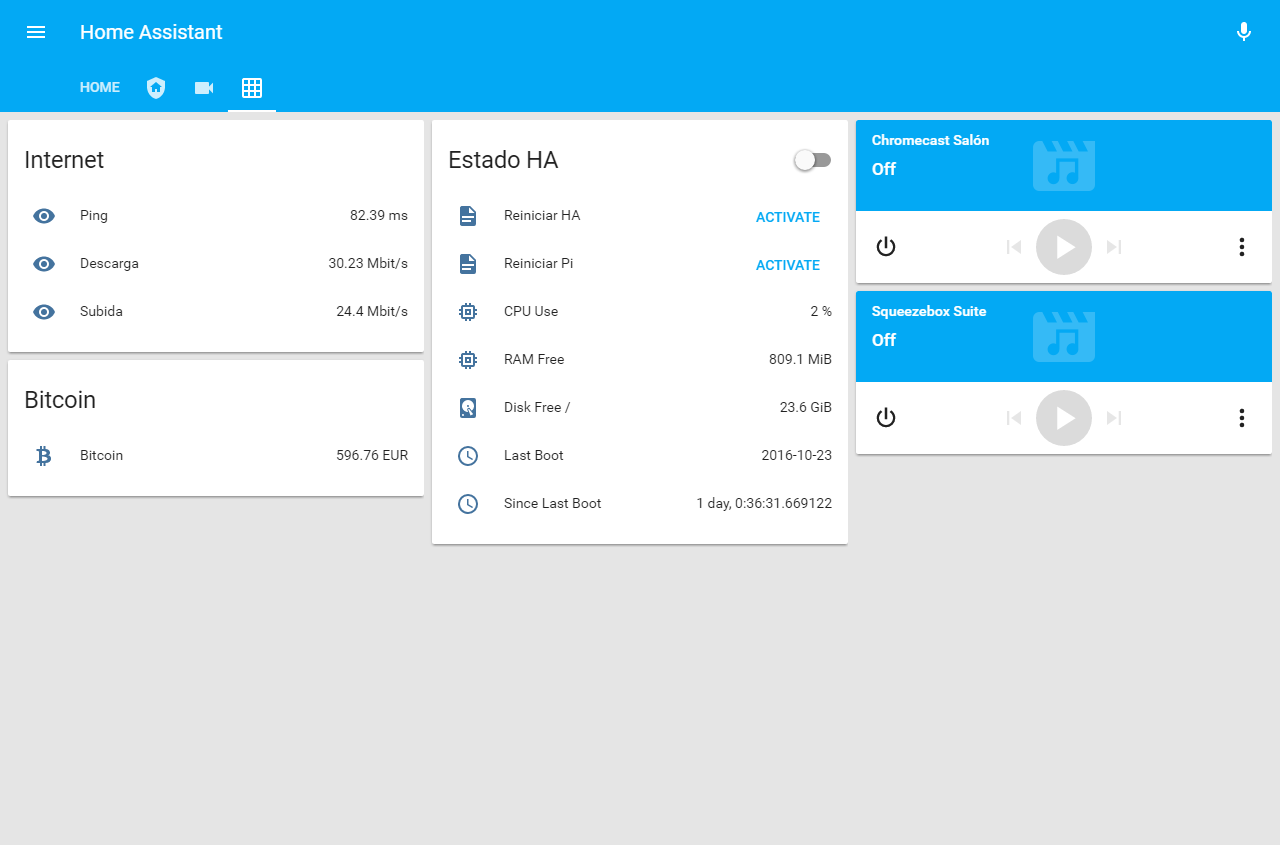
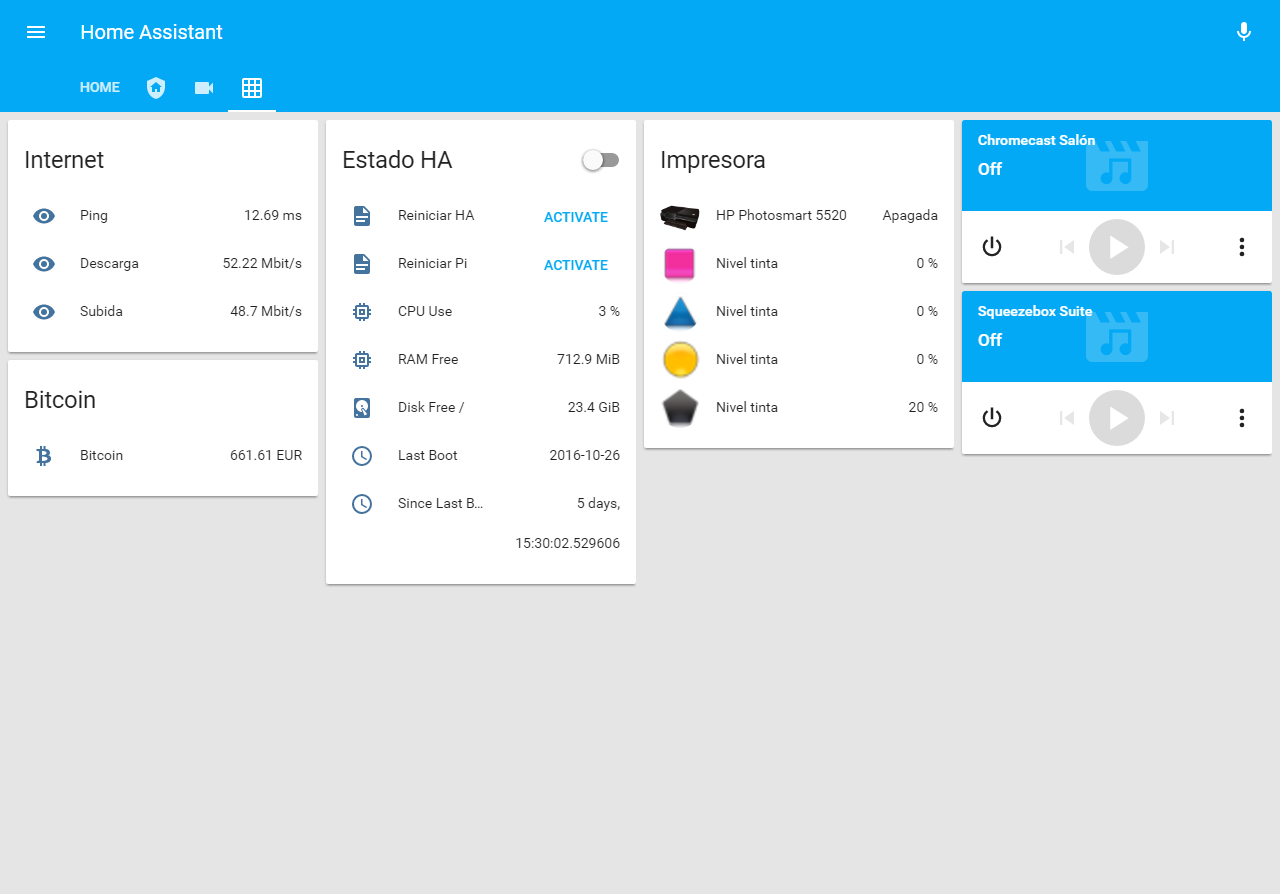
Updated documentation

diff --git a/README.md b/README.md
@@ -11,6 +11,8 @@ Home Assistant runs on my Raspberry Pi 3 with a UPS APC Back-UPS 650VA attached.
 * [Mosquitto] (https://mosquitto.org/)
 * [vsftpd FTP server] (https://security.appspot.com/vsftpd.html)
 * [incron] (http://inotify.aiken.cz/)
+* [CUPS] (https://wiki.archlinux.org/index.php/CUPS)
+* [HPLIP] (http://hplipopensource.com/hplip-web/index.html)
 * [Home Assistant](https://home-assistant.io/)
 
 ## Devices I have:
@@ -27,6 +29,7 @@ Home Assistant runs on my Raspberry Pi 3 with a UPS APC Back-UPS 650VA attached.
 * Logitech Squeezebox
 * Efergy energy meter
 * Fitbit Alta
+* HP Photosmart 5520 printer
 
 ## Automations (among others)
 * Activate/deactivate motion detection and heating depending on the presence
@@ -39,8 +42,8 @@ Home Assistant runs on my Raspberry Pi 3 with a UPS APC Back-UPS 650VA attached.
 * Notify when the power is back to normal.
 * Notify when the UPS battery has to be replaced.
 * Notify if fence is open form more than 4 minutes.
-* Turn on swimming pool pump at 7AM
-* Turn on swimming pool pump at 8PM
+* Turn on swimming pool pump every day at 7AM
+* Turn on swimming pool pump every day at 8PM
 * Stop the swimming pool pump depending on the season of the year (3 hours in summer, 2 hours in spring and autumn, 1 hour in winter).
 I've created a sensor to determine roughly the season of the year:
 ```
@@ -75,14 +78,18 @@ I've configured the system to get instant notifications using telegram including
 
 ### Motion detection activation
 Motion detection is activated automatically as soon as no one is at home.
+
 I have an assistant that doesn't use the WiFi so (appart from legal implications) I cannot track her device.
+
 My solution to this is to create a switch to enable a delay to activate motion detection and a slider to configure the delay in minutes.
 
 ![Security activation delay](https://raw.githubusercontent.com/hokus15/home-assistant-config/master/security_activation_delay.png)
 
 ### Cameras configuration
 The configuration for my cameras has been set to upload a snapshot to an FTP every time a motion is detected.
+
 You have to tweak the camera configuration (sensibility, motion detection zones, number of snapshots taken,...) to fit your needs (and not get too many notifications).
+
 Each camera upload the snapshot into a different folder in the same FTP.
 
 ### FTP
@@ -101,7 +108,7 @@ Now we need to connect the FTP with home-assistant.
 
 For this I've used incron.
 
-As described in their website (http://inotify.aiken.cz/?section=incron&page=about&lang=en): *This program is an "inotify cron" system. It consists of a daemon and a table manipulator. You can use it a similar way as the regular cron. The difference is that the inotify cron handles filesystem events rather than time periods.*
+As described in [iNotify website] (http://inotify.aiken.cz/?section=incron&page=about&lang=en): *This program is an "inotify cron" system. It consists of a daemon and a table manipulator. You can use it a similar way as the regular cron. The difference is that the inotify cron handles filesystem events rather than time periods.*
 
 I've configured incron to execute a script called `motion_detected.sh` every time a new file is written and closed in the FTP folders.
 
@@ -114,7 +121,10 @@ This is how it looks like my incrontab configuration:
 
 ### Send pictures using telegram
 The script `motion_detected.sh` calls home-assistant API to trigger a notification using Telegram including the snapshot.
-It gets 2 parameters, first to get the name of the uploaded file (snapshot) and the other one the location of camera that uploaded the file (snapshot).
+
+It also publishes alarm status 1 to MQTT topic `home/camera/<camera name>/alarm`. 
+
+It gets 2 parameters, first to get the name of the uploaded file (snapshot) and the other one the name of the camera that uploaded the file (snapshot).
 
 To run the script without providing a password to Home-Assistant, I've added `127.0.0.1` to `trusted_networks` list in `configuration.yaml` file.
 
@@ -122,4 +132,102 @@ This is how the script looks like:
 ```
 #!/bin/sh
 curl -s -X POST -H "Content-Type: application/json" -d '{"message": "text", "data": {"photo": {"file": "'$1'", "caption": "Movimiento detectado en '$2'"}}}' "http://localhost:8123/api/services/notify/telegram"
+mosquitto_pub --cafile /etc/ssl/certs/ca-certificates.crt -h <mqtt_host> -p <mqtt_port> -u <mqtt_user> -P <mqtt_password> -t "home/camera/$2/alarm" -r -m 1
 ```
+
+The `home/camera/<camera name>/alarm` topic is back to 0 after 15 seconds using an automation.
+
+## Monitor UPS status
+
+I have a APC Back-UPS 650VA UPS attached to my raspberry pi.
+
+This UPS gives power to my main internet router, my raspberry pi and my QNAP NAS.
+
+Monitor the UPS status is very useful to know when a power outage has occured (and receive a telegram notification) and also know when the power is back to normal.
+
+To monitor the UPS status in Home Assistant I use a MQTT sensor.
+
+### Publish the UPS status to MQTT
+
+To publish the UPS status to MQTT I use [NUT] (http://networkupstools.org/).
+
+Once you have NUT installed an running you can configure it to publish UPS status to MQTT topic.
+
+To do this, just edit `/etc/nut/upsmon.conf` file and set the `NOTIFYCMD` command top publish the status to MQTT:
+
+```
+NOTIFYCMD "mosquitto_pub --cafile /etc/ssl/certs/ca-certificates.crt -h <mqtt_host> -p <mqtt_port> -u <mqtt_user> -P <mqtt_password> -t \"home/ups/status\" -r -m $NOTIFYFLAG"
+```
+
+I've also adapted the `NOTIFYMSG` values:
+
+```
+NOTIFYMSG ONLINE        "ONLINE"
+NOTIFYMSG ONBATT        "ONBATT"
+NOTIFYMSG LOWBATT       "LOWBATT"
+NOTIFYMSG FSD           "FSD"
+NOTIFYMSG COMMOK        "COMMOK"
+NOTIFYMSG COMMBAD       "COMMBAD"
+NOTIFYMSG SHUTDOWN      "SHUTDOWN"
+NOTIFYMSG REPLBATT      "RPLBATT"
+NOTIFYMSG NOCOMM        "NOCOMM"
+NOTIFYMSG NOPARENT      "NOPARENT"
+```
+
+and `NOTIFYFLAG` values:
+
+```
+NOTIFYFLAG ONLINE       EXEC+SYSLOG
+NOTIFYFLAG ONBATT       EXEC+SYSLOG
+NOTIFYFLAG LOWBATT      EXEC+SYSLOG
+NOTIFYFLAG FSD  EXEC+SYSLOG
+NOTIFYFLAG COMMOK       EXEC+SYSLOG
+NOTIFYFLAG COMMBAD      SYSLOG
+NOTIFYFLAG SHUTDOWN     EXEC+SYSLOG
+NOTIFYFLAG REPLBATT     EXEC+SYSLOG
+NOTIFYFLAG NOCOMM       EXEC+SYSLOG
+NOTIFYFLAG NOPARENT     EXEC+SYSLOG
+```
+
+![UPS Monitor](https://raw.githubusercontent.com/hokus15/home-assistant-config/master/UPS_monitor.png)
+
+## Monitor printer ink levels
+
+You need to install [CUPS] (https://wiki.archlinux.org/index.php/CUPS) and [HPLIP] (http://hplipopensource.com/hplip-web/index.html).
+
+Once the printer is configured you can read the ink levels using the `hp-info` utility.
+
+To monitor the ink levels in Home Assistant I use one MQTT sensor per each color.
+
+### Publish the ink levels to MQTT
+
+I've created a script to publish each color ink level to a different MQTT topic (`home/printer/<color>`). This script only publishes to MQTT if something is returned from `hp-info` utility.
+
+The script looks like:
+```
+#!/bin/sh
+ink_levels=$(hp-info 2>&1 | grep -oP "(?<=agent[1-4]-level\s{18})(.*\S)" | tr "\n" ",")
+colors=(
+     'magenta'
+     'cyan'
+     'yellow'
+     'black'
+   )
+if [ -n "${ink_levels}" ]; then
+    IFS=',' read -r -a ink_levels_array <<< "$ink_levels"
+    for index in "${!ink_levels_array[@]}"
+    do
+        if [ -n "${ink_levels_array[index]}" ]; then
+           mosquitto_pub --cafile /etc/ssl/certs/ca-certificates.crt -h <mqtt_host> -p <mqtt_port> -u <mqtt_user> -P <mqtt_password> -t "home/printer/${colors[index]}" -r -m "${ink_levels_array[index]}"
+        fi
+    done
+fi
+```
+
+I've added the script to crontab to check every 5 minutes the ink levels (keep in mind that it only publishes when the `hp-info` utility returns data and this only occurs when the printer is on):
+
+```
+*/5 * * * * bash /home/pi/ink_levels.sh
+```
+
+![Ink level monitor](https://raw.githubusercontent.com/hokus15/home-assistant-config/master/ink_level_monitor.png)
